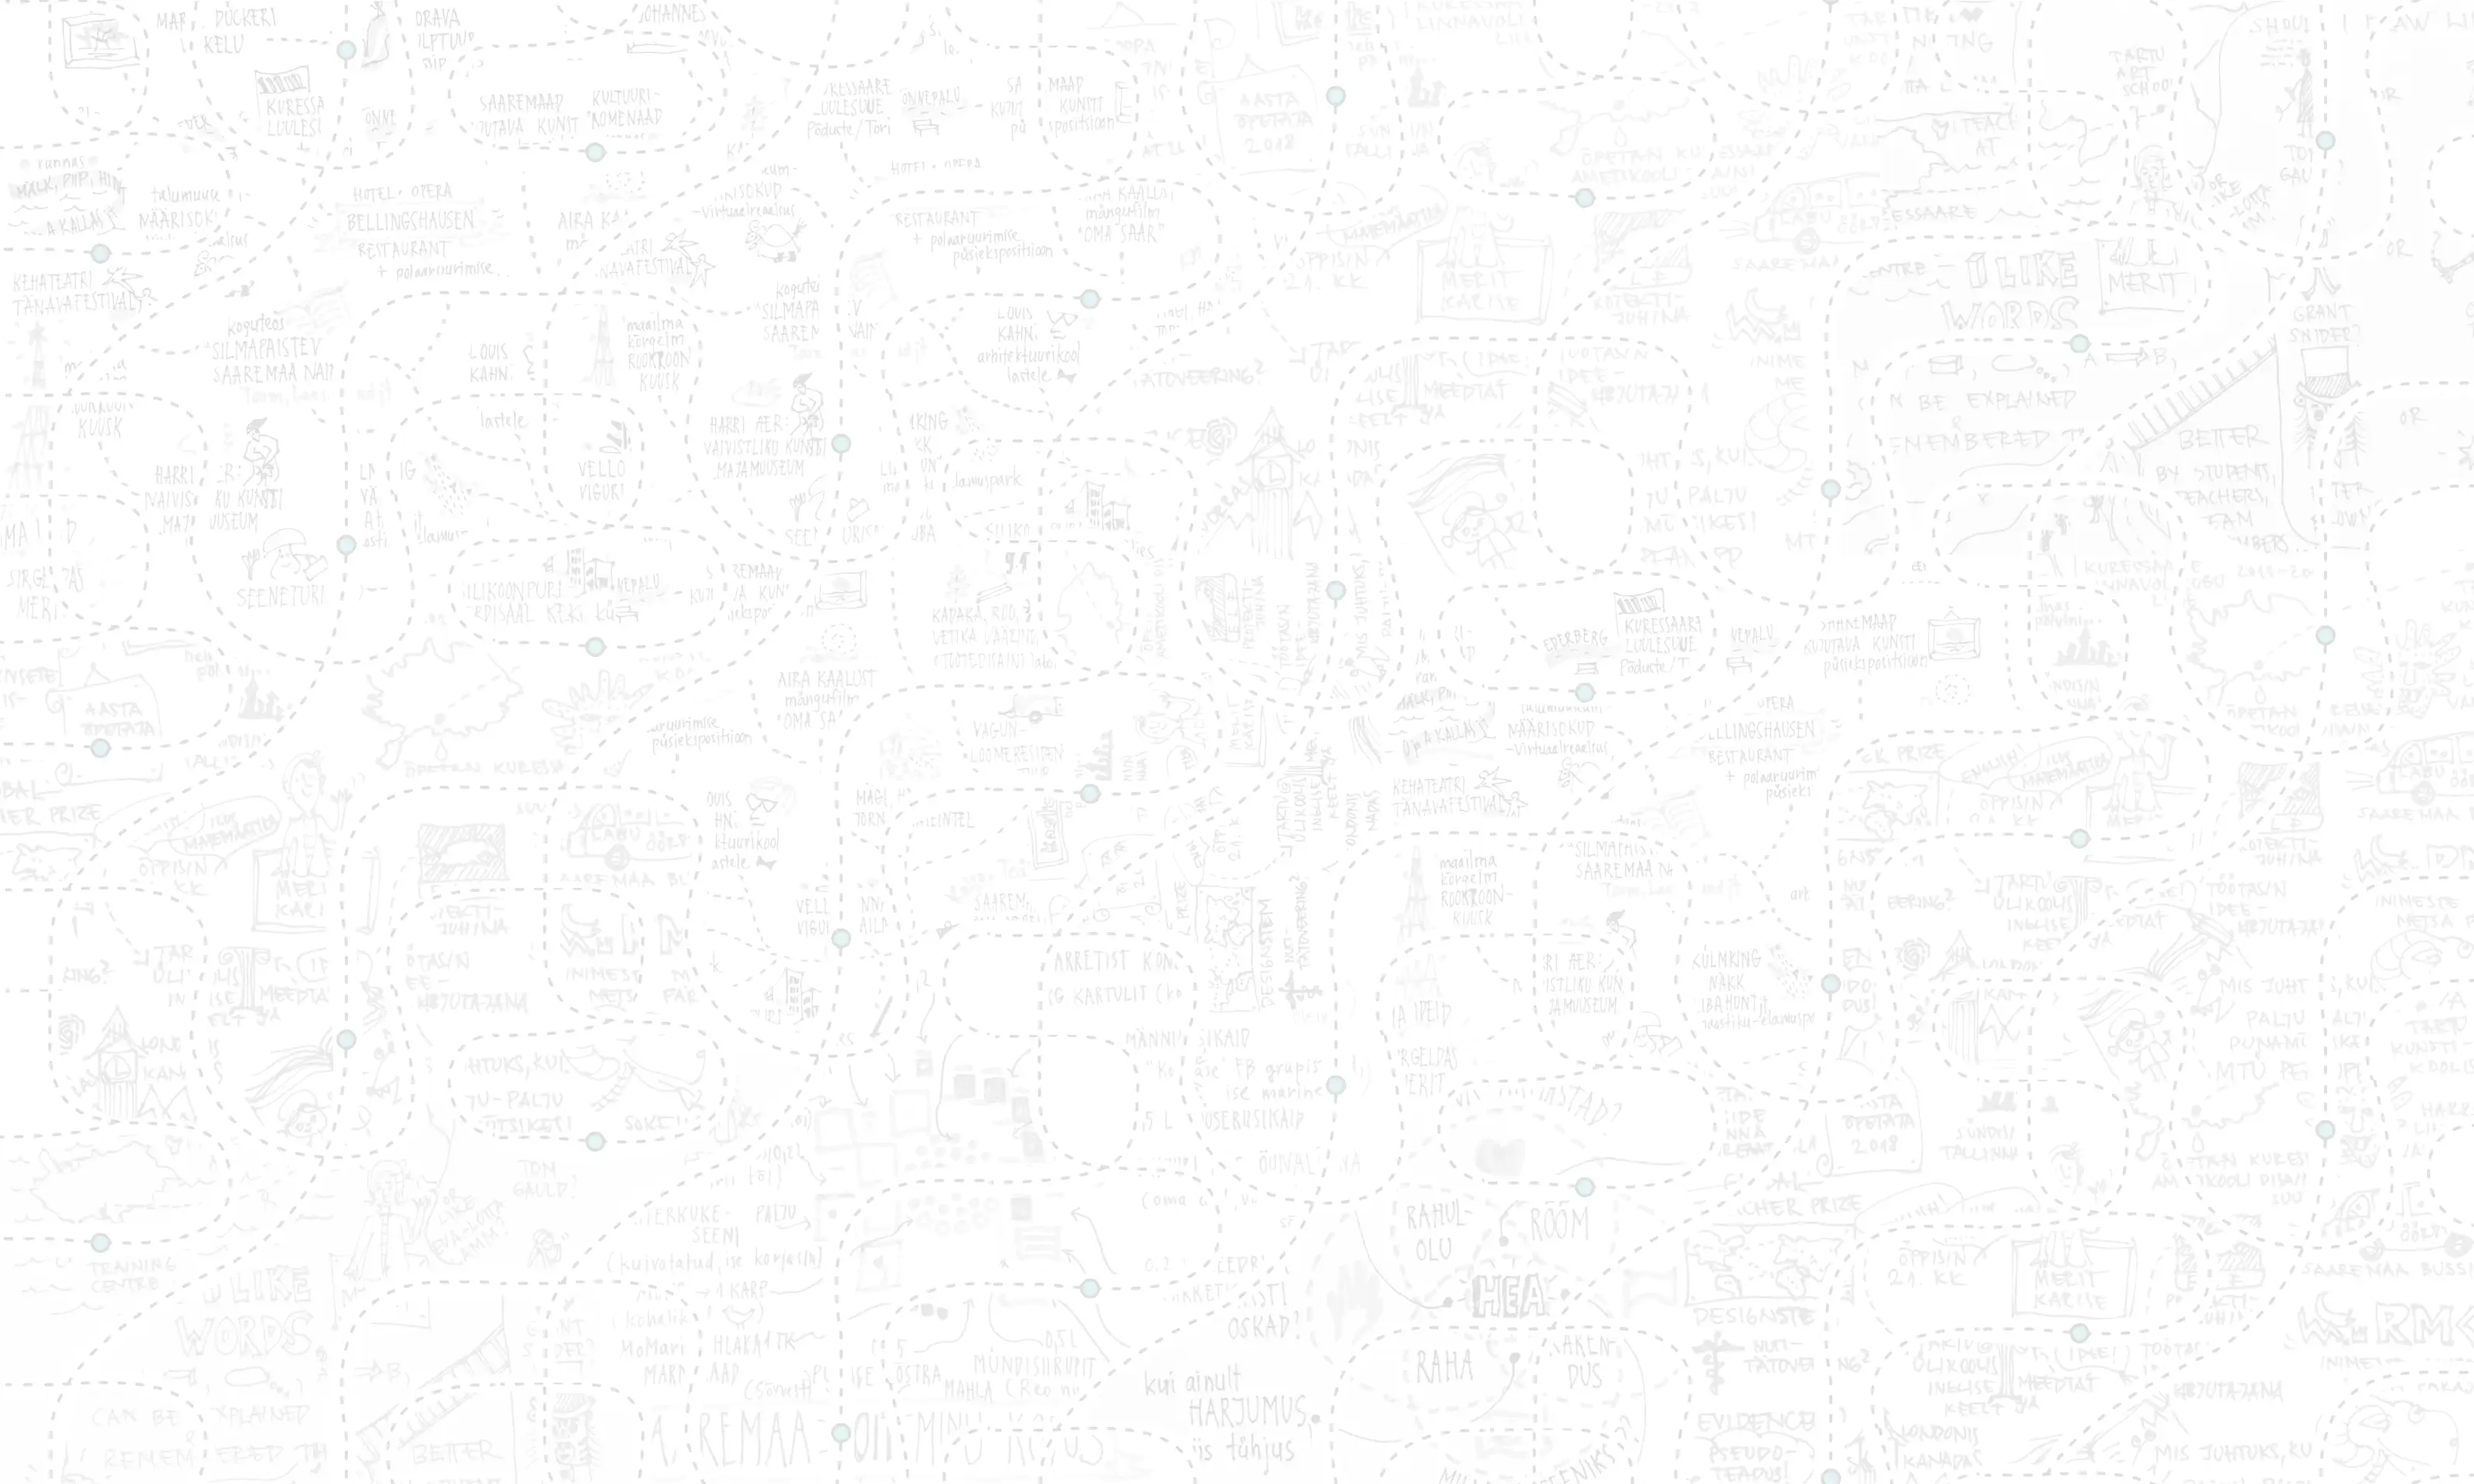
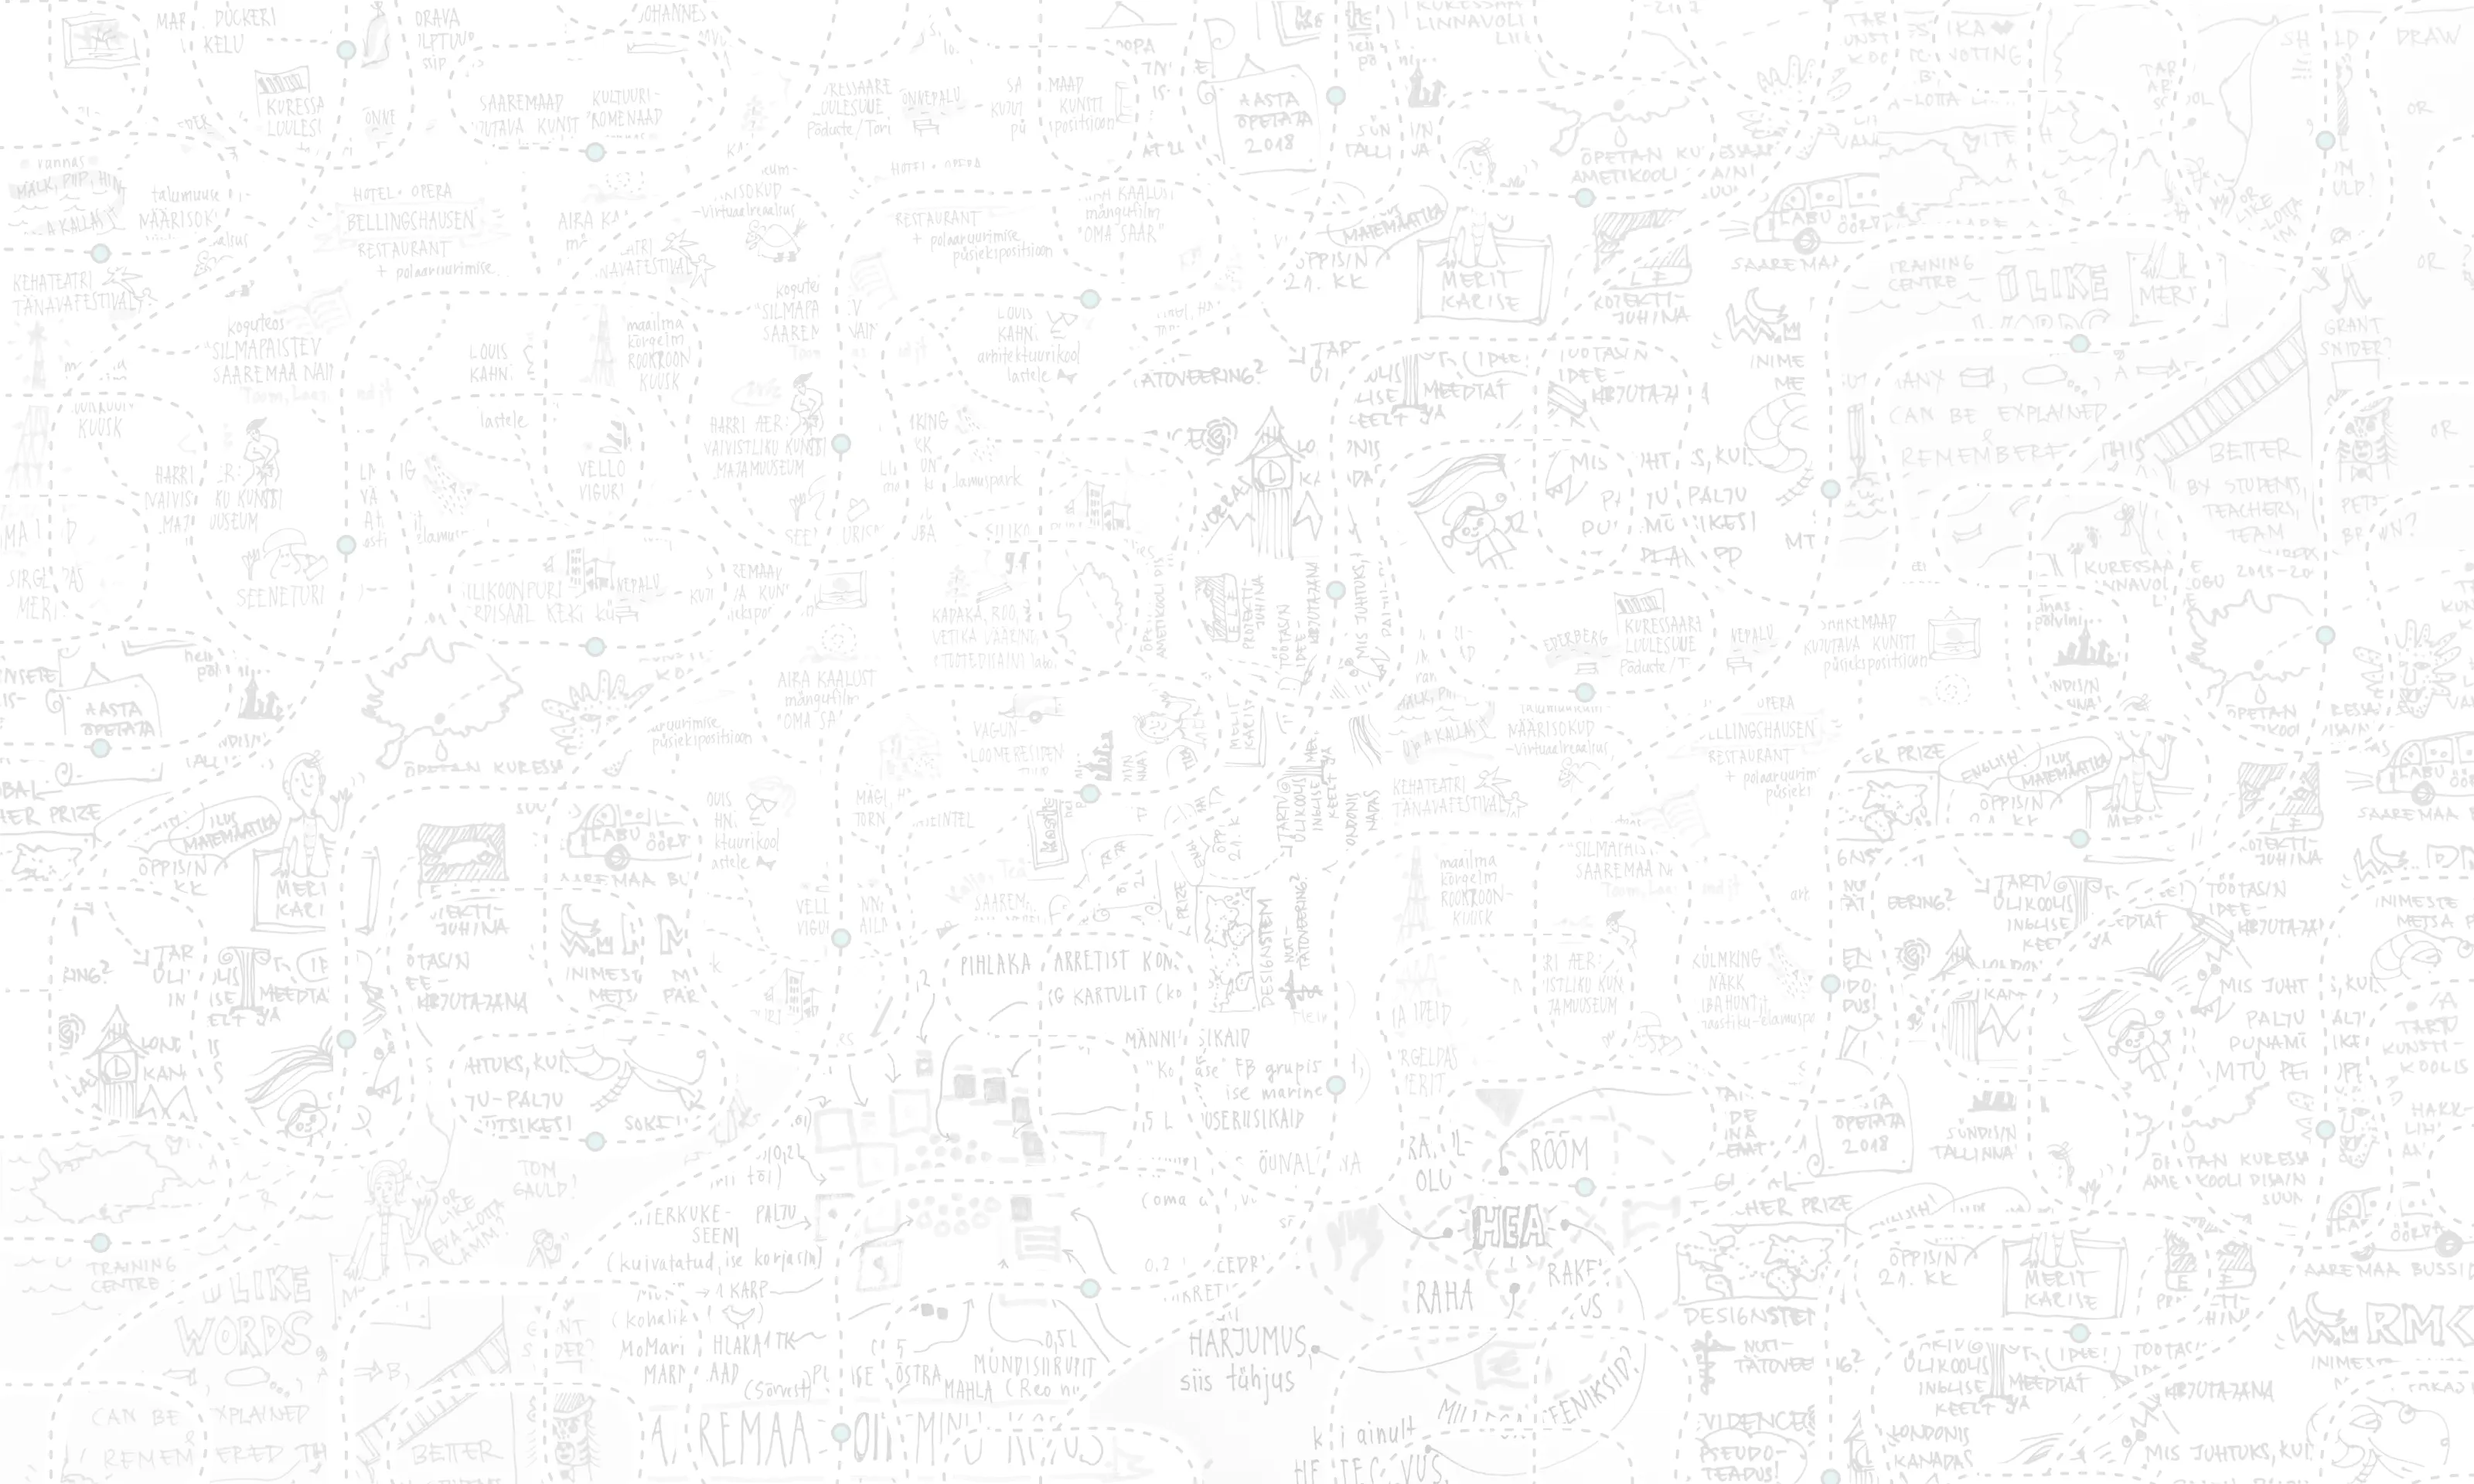
background

diff --git a/components/content/HomePage.vue b/components/content/HomePage.vue
@@ -120,11 +120,11 @@
             </h1>
             <!-- <h2 class="mt-8 font-Special text-secondary-800 text-4xl uppercase
             dark:text-secondary-500">Mis see veel on?</h2> -->
-            <p class="font-sans text-secondary-900 mb-0 text-lg
-            dark:text-secondary-400
+            <p class="font-sans text-secondary-900 mb-0 text-lg bg-white
+            dark:text-secondary-400 dark:bg-secondary-900
             lg:mt-5">Tule uita lugudes, mis on jutustanud, kirja pannud ja piltidena kujutanud inimesed, keda Saaremaaga seob elu või töö või õppimine - või kõik koos. Kindlasti leiad sel teel üht-teist tuttavat, tõenäoliselt palju uut, ning võib juhtuda, et leiad ka  iseenda - ja see vast oleks köige kenam?</p>
-            <p class="font-sans text-secondary-900 text-lg
-            dark:text-secondary-400">Esimese sammuna kliki <a class="text-primary-700 cursor-pointer dark:text-rimary-400" @click="compassNeedleClick">kompassi keskel</a> ja vaata, kuhu satud. Või vali <a class="text-primary-700 cursor-pointer dark:text-rimary-400" @click="toggleStories">nimekirjast</a> mõte, mis sind kaasa kutsub.</p>
+            <p class="font-sans text-secondary-900 text-lg bg-white
+            dark:text-secondary-400 dark:bg-secondary-900">Esimese sammuna kliki <a class="text-primary-700 cursor-pointer dark:text-rimary-400" @click="compassNeedleClick">kompassi keskel</a> ja vaata, kuhu satud. Või vali <a class="text-primary-700 cursor-pointer dark:text-rimary-400" @click="toggleStories">nimekirjast</a> mõte, mis sind kaasa kutsub.</p>
 
         </div>
         

diff --git a/components/AppLayout.vue b/components/AppLayout.vue
@@ -14,7 +14,16 @@
 </script>
 
 <template>
-  <div class="grid grid-cols-[3rem_1fr] sm:grid-cols-[4rem_1fr] md:grid-cols-[6rem_1fr] lg:grid-cols-[8rem_1fr] print:grid-cols-[0_1fr] transition-all">
+  <div class="grid grid-cols-[3rem_1fr] 
+  bg-white bg-[url('/images/saarlus-bg.webp')] bg-repeat bg-[length:960px_576px]
+  dark:bg-secondary-900 dark:bg-[url('/images/saarlus-bg--dark.webp')]
+  sm:grid-cols-[4rem_1fr] 
+  md:grid-cols-[6rem_1fr] md:bg-[length:1200px_720px]
+  lg:grid-cols-[8rem_1fr] lg:bg-[length:2400px_1440px]
+  print:grid-cols-[0_1fr] 
+  transition-all"
+  :style="`background-position:${Math.random()*100}% ${Math.random()*100}%`"
+  >
     <Html lang="et" :class="overflow ? 'overflow-hidden' : 'overflow-auto'" />
     <Meta property="og:image" :content="cover" />
     <!-- <Meta name="twitter:card" content="summary_large_image" /> -->

diff --git a/layouts/first-page.vue b/layouts/first-page.vue
@@ -1,5 +1,5 @@
 <template>
-    <div class="py-20 m-auto bg-white bg-[url('/images/saarlus-bg.webp')] bg-[length:1600px_960px]  dark:bg-secondary-900 dark:bg-[url('/images/bg-map-dark.svg')]">
+    <div class="py-20 m-auto">
         <main class="px-4 mx-auto sm:px-8 
           prose prose-gray dark:prose-invert">
             <slot>

diff --git a/app.config.ts b/app.config.ts
@@ -1,6 +1,5 @@
 export default defineAppConfig({
   socials: {
-    twitter: 'Atinux',
-    github: 'Atinux/content-wind'
+    github: 'Saaremaavald/saarlus'
   }
 })

diff --git a/content/_lood/aino-kallas-gideon.md b/content/_lood/aino-kallas-gideon.md
@@ -40,7 +40,7 @@ Alles nüüd sain mahti vilksamisi ümber vaadata. Ehkki mu mõtted kogu aja oli
 “Kuidas siin elatakse?” küsisin haigele kätt andes. \
 “Halvasti üsna halvasti minek on lähedal. Ei ole enam abi neist maapealseist,” tuli vastus, vaevalt kuulduv, peagu sosin. \
 “Kas on ka arsti kutsutud? Ons ta käinud?” pärisin. \
-“Ei ole. Siin ei ole muid käinud kui see naabri naine, Leena! saab.Ta käib, kui ta tööde vahelt mahti.” \
+“Ei ole. Siin ei ole muid käinud kui see naabri naine, Leena, saab. Ta käib, kui ta tööde vahelt mahti.” \
 “Aga kuidas on su surematu hingega lugu? Kas oled valmis astuma meie Issanda ja Jumala ette, kes saab oma õigluse vaekausil kaaluma niihästi su head kui kurjad teod? Vasta selle peale, naine!”
 
 Haige ärakurnatud näol vilgatas jälle kohkunud, hirmunud ilme, otsekui jahikoertest ahistatud metsloomal, kuid ta ei saanud sõna suust. Jõuetumad käed vaid katsusid vaistlikult nagu tõrjumiseks tõusta. Mõistsin, et siin tuli lasta evangeeliumil käia seaduse pookstavi eel, kui taheti midagi kätte saada. Muutsin seepärast oma kõnetooni ja sõnasin rahustavalt:
@@ -76,7 +76,7 @@ Surija hingeldas kuuldavalt, nagu oleks vaesekese rinnas sepa lõõts töötanud
 
 “Ja sina...?” \
 Surija pea kukkus tagasi õlgpadjale. \
-“Ma kuulsin ta nõu vahetasin, nagu kästi.” \
+“Ma kuulsin ta nõu, vahetasin, nagu kästi.” \
 “Ja keegi ei märganud midagi?” \
 “Ei märganud midagi.” \
 “Kas ka mitte hiljem?” \
